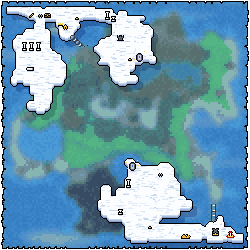
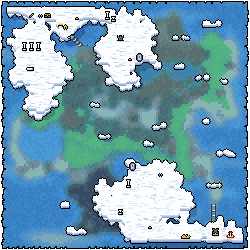
Aboveground map: puffy cloud edges and decorative clouds

diff --git a/ideas.md b/ideas.md
@@ -128,3 +128,4 @@ Newest first; keep the last three, cut older ones to the archive.
 - 2026-11-19 (dev): installed the approved ground map with the reworked Prairie bridge (artist option C4: volcano spring joins the river in a Y, S-curved river, Prairie extended into the south gulf) as img/ui/mapa.png. The Prairie bridge is now near map pixel (125,145) and the river runs a bit further south: map spots by the old channel and on the south Prairie coast still to re-check (docs/MAPS.md question B open).
 - 2026-11-19 (dev): checked every existing map spot (stage x,y in src/data/zones.js) against the new ground map C4: all on land, none moved. Spots for the future scenes, from the artist, as x,y fractions of the 250 px map: Prairie bridge 0.5,0.58 (125,145); Swamp bridge 0.724,0.2 (181,50); beach la_playa about 0.916,0.32 (229,80), author still to choose between the north-east beach and the south-west palm sand. No place data exists for these yet, so nothing to wire until the scenes are built.
 - 2026-11-19 (dev): author decided: la_playa = north-east beach; the south-west palm sand is a second beach, only next to the lake and only reachable from the surrounding zones (recorded in docs/MAPS.md). Needs its own zone/destinations design later.
+- 2026-11-19 (dev): installed the approved aboveground map rework (artist option C2: puffy cloud edges, 14 decorative clouds) as img/ui/mapaboveground.png. Portals and stair arrivals unchanged, so the Heidan spots stay valid.

diff --git a/CHANGELOG.md b/CHANGELOG.md
@@ -1,6 +1,7 @@
 # Changelog
 
 ## Unreleased
+- Aboveground map: the cloud lands have puffy, irregular edges and the sky has some small decorative clouds around them.
 - Ground map: the Prairie bridge now crosses something. A spring from the volcano runs down to the road, under the bridge, and joins the main river in a Y; the river has gentle S curves down to the sea, and the Prairie reaches a little further into the southern gulf so the river no longer runs beside the sea.
 - Fixed the game sitting frozen after the tab was left alone for a long time: after the reload that settles the time away, the wizard now goes on with his adventures (before, only a wizard with no change at all restarted). A safety net also restarts the events if nothing has been scheduled for 20 seconds, and says so in the console.
 - Waking a laptop that slept with the game tab open now reloads the game, so the time away is settled. Before, no visibility event fired, the away time was lost and the game could sit frozen with no events until a manual reload. Also added loop.loopInfo() for debugging (dev console: dev.loop.loopInfo()).
